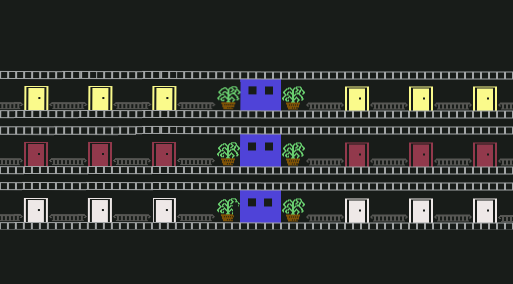
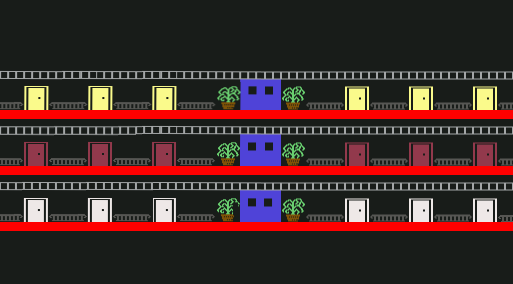
Jones animating

Changed region(s): [[0.0, 0.7606, 1.0, 0.8169], [0.0, 0.5634, 1.0, 0.6197], [0.0, 0.3662, 1.0, 0.4225]]

diff --git a/wwwroot/scripts/lobby.js b/wwwroot/scripts/lobby.js
@@ -1,41 +1,119 @@
-var lobby = function(game){}
+var lobby = function (game) { };
+
 
 lobby.prototype = {
-    
+
     camSpeed: 4,
-       
-  	preload: function(){
+    jonesSpeed: 30,
+    jonesDirection: "right",
+
+    preload: function () {
         this.game.load.image('lobby', 'assets/background/lobby.png');
-	},
-    create: function(){
-        this.game.physics.startSystem(Phaser.Physics.ARCADE);
-        
-        this.game.world.setBounds(0,0, 513, 284);
-            
-        //  Scrolling background
+        this.game.load.image('floor', 'assets/background/floor.png');
+        this.game.load.spritesheet('jones', 'assets/spritesheet/jones.png', 24, 21, 8);
+    },
+    create: function () {
+
+        // http://phaser.io/examples/v2/input/pixelpick-scrolling-effect
+        this.game.world.setBounds(0, 0, 513, 284);
         this.background = this.game.add.tileSprite(0, 0, 513, 284, 'lobby');
         this.game.camera.x = 63;
 
-        // http://phaser.io/examples/v2/input/pixelpick-scrolling-effect
-    },
-    update: function(){
-        if (this.game.input.keyboard.isDown(Phaser.Keyboard.LEFT))
-        {
-            this.game.camera.x -= this.camSpeed;
+        // http://phaser.io/tutorials/making-your-first-phaser-game/part3
+        
+        //  We're going to be using physics, so enable the Arcade Physics system
+        this.game.physics.startSystem(Phaser.Physics.ARCADE);
 
-            if (!this.game.camera.atLimit.x)
-            {
-                this.background.tilePosition.x += this.camSpeed;
+        //  The platforms group contains the ground and the 2 ledges we can jump on
+        this.platforms = this.game.add.group();
+        //  We will enable physics for any object that is created in this group
+        this.platforms.enableBody = true;
+
+        // Here we create the ground.
+        this.floor0 = this.platforms.create(0, 110, 'floor');
+        this.floor0.body.immovable = true;
+        this.floor1 = this.platforms.create(0, 166, 'floor');
+        this.floor1.body.immovable = true;
+        this.floor2 = this.platforms.create(0, 222, 'floor');
+        this.floor2.body.immovable = true;
+        
+        // http://www.joshmorony.com/how-to-create-an-animated-character-using-sprites-in-phaser/
+        this.jones = this.game.add.sprite(250, 145, 'jones');
+        this.game.physics.enable(this.jones, Phaser.Physics.ARCADE);
+        this.jones.animations.add('right', [0, 1, 2, 3], 10, true);
+        this.jones.animations.add('left', [7, 6, 5, 4], 10, true);
+        this.jones.enableBody = true;
+        this.jonesRight();
+    },
+    jonesLeft: function () {
+        this.jonesDirection = "left";
+        this.jones.animations.play(this.jonesDirection);
+        this.jones.body.velocity.x = -this.jonesSpeed;
+    },
+    jonesRight: function () {
+        this.jonesDirection = "right";
+        this.jones.animations.play(this.jonesDirection);
+        this.jones.body.velocity.x = +this.jonesSpeed;
+    },
+    jonesJump: function () {
+        if (this.jonesJumpingDY == undefined) {
+            this.jonesJumpingDY = -1;
+            this.jonesJumpingCount = 0;
+        }
+    },
+    jonesJumping: function () {
+        if (this.jonesJumpingDY == -1) {
+            if (this.jonesJumpingCount < 20) {
+                this.jones.body.y -= 0.5;
+                this.jonesJumpingCount++;
+            }
+            else {
+                this.jonesJumpingDY = 1;
             }
         }
-        else if (this.game.input.keyboard.isDown(Phaser.Keyboard.RIGHT))
-        {
-            this.game.camera.x += this.camSpeed;
-
-            if (!this.game.camera.atLimit.x)
-            {
-                this.background.tilePosition.x -= this.camSpeed;
+        else {
+            if (this.jonesJumpingCount > 0) {
+                this.jones.body.y += 0.5;
+                this.jonesJumpingCount--;
             }
+            else {
+                this.jonesJumpingDY = undefined;
+            }
+        }
+    },
+    cameraScrollLeft: function () {
+        if (this.cameraScrollingDY == undefined) {
+            this.cameraScrollingDY = -1;
+            this.cameraScrollingCount = 0;
+        }
+    },
+    cameraScrolling: function () {
+        if (this.cameraScrollingDY == -1) {
+            if (this.cameraScrollingCount < 20) {
+                this.game.camera.x -= 0.5;
+                this.cameraScrollingCount++;
+            }
+            else {
+                this.cameraScrollingDY = undefined;
+            }
+        }
+    },
+    update: function () {
+        if (this.jonesJumpingDY != undefined) {
+            this.jonesJumping();
+        }
+        if (this.game.input.keyboard.isDown(Phaser.Keyboard.LEFT)) {
+            if (this.jonesDirection != "left") {
+                this.jonesLeft();
+            }
+        }
+        else if (this.game.input.keyboard.isDown(Phaser.Keyboard.RIGHT)) {
+            if (this.jonesDirection != "right") {
+                this.jonesRight();
+            }
+        }
+        else if (this.game.input.keyboard.isDown(Phaser.Keyboard.UP)) {
+            this.jonesJump();
         }
     }
 }

diff --git a/wwwroot/scripts/preload.js b/wwwroot/scripts/preload.js
@@ -2,6 +2,7 @@ var preload = function(game){}
 
 preload.prototype = {
 	preload: function(){ 
+        this.game.load.image('background', 'assets/background/preload.png');
         var loadingBar = this.add.sprite(386/2,284/2,"loading");
         loadingBar.anchor.setTo(0.5,0.5);
         this.load.setPreloadSprite(loadingBar);
@@ -13,6 +14,12 @@ preload.prototype = {
 		// this.game.load.image("gameover","assets/gameover.png");
 	},
   	create: function(){
+        var background = this.game.add.sprite(0, 0, 'background');
+        this.game.state.start("lobby");
+		//var title1Button = this.game.add.button(386/2,284/2,"title1",this.title1,this);
+		//title2Button.anchor.setTo(0.5,0.5);
+	},
+	title1: function(){
 		this.game.state.start("title1");
 	}
 }

diff --git a/wwwroot/scripts/boot.js b/wwwroot/scripts/boot.js
@@ -1,5 +1,5 @@
 var boot = function(game){
-	console.log("%cStarting my awesome game", "color:white; background:red");
+	console.log("%cStarting Lazy Jones HTML5+JavaScript", "color:white; background:red");
 };
   
 boot.prototype = {
@@ -10,6 +10,6 @@ boot.prototype = {
 		this.scale.scaleMode = Phaser.ScaleManager.SHOW_ALL;
 		this.scale.pageAlignHorizontally = true;
 		this.scale.setScreenSize();
-		this.game.state.start("preload");
+		this.game.state.start("preload");		
 	}
 }

diff --git a/README.md b/README.md
@@ -1,2 +1,2 @@
-# lazyjones
+# Lazy Jones
 Lazy Jones
